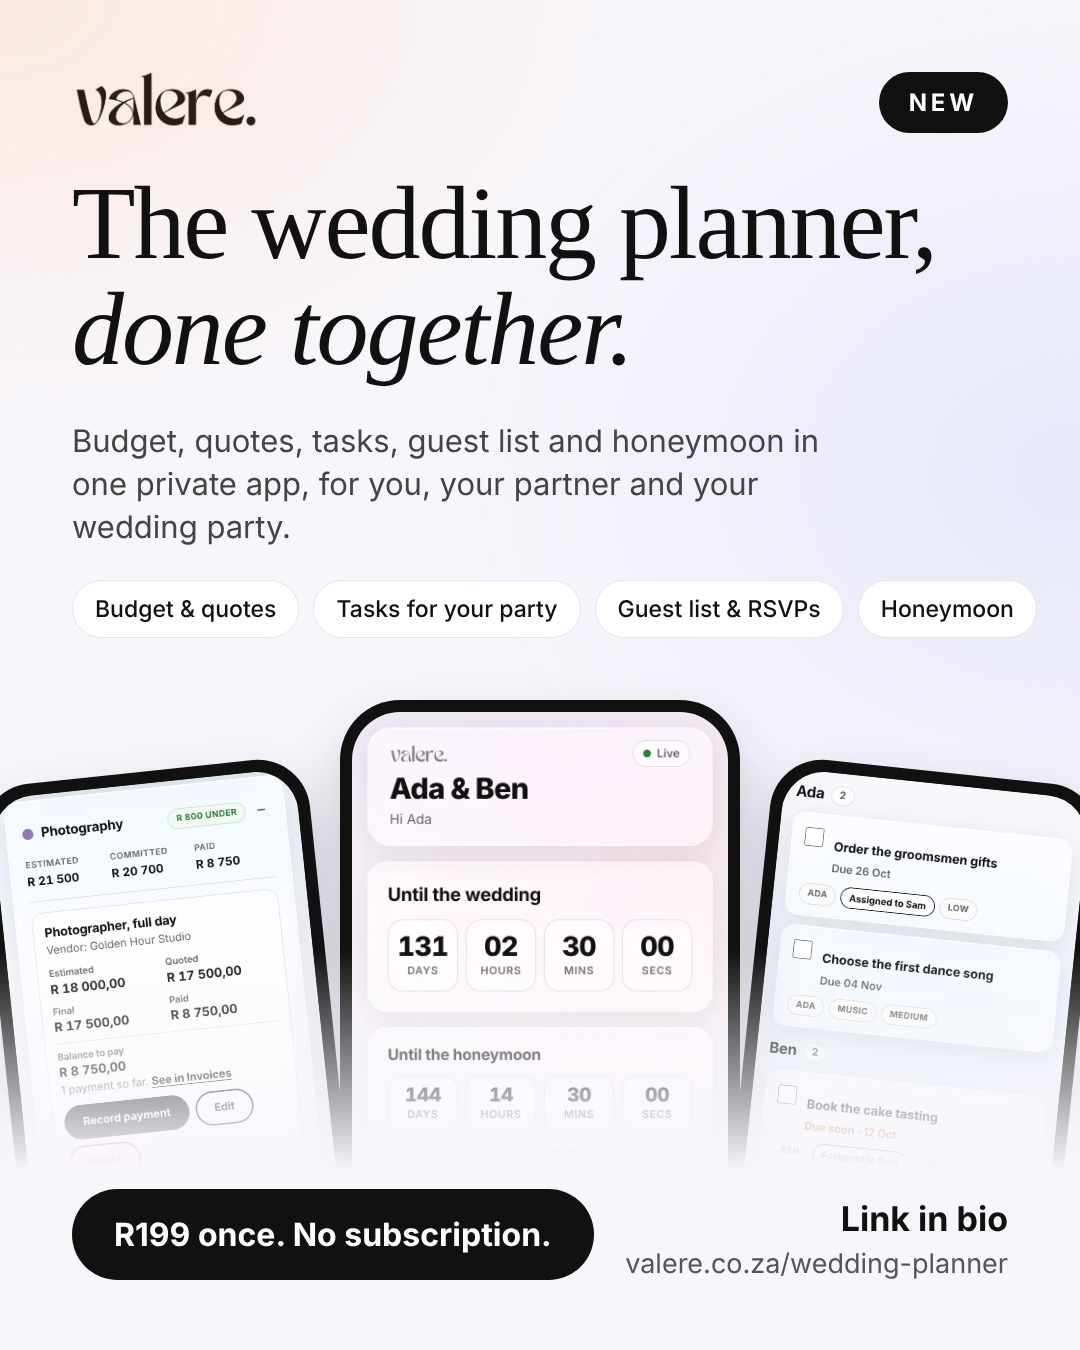
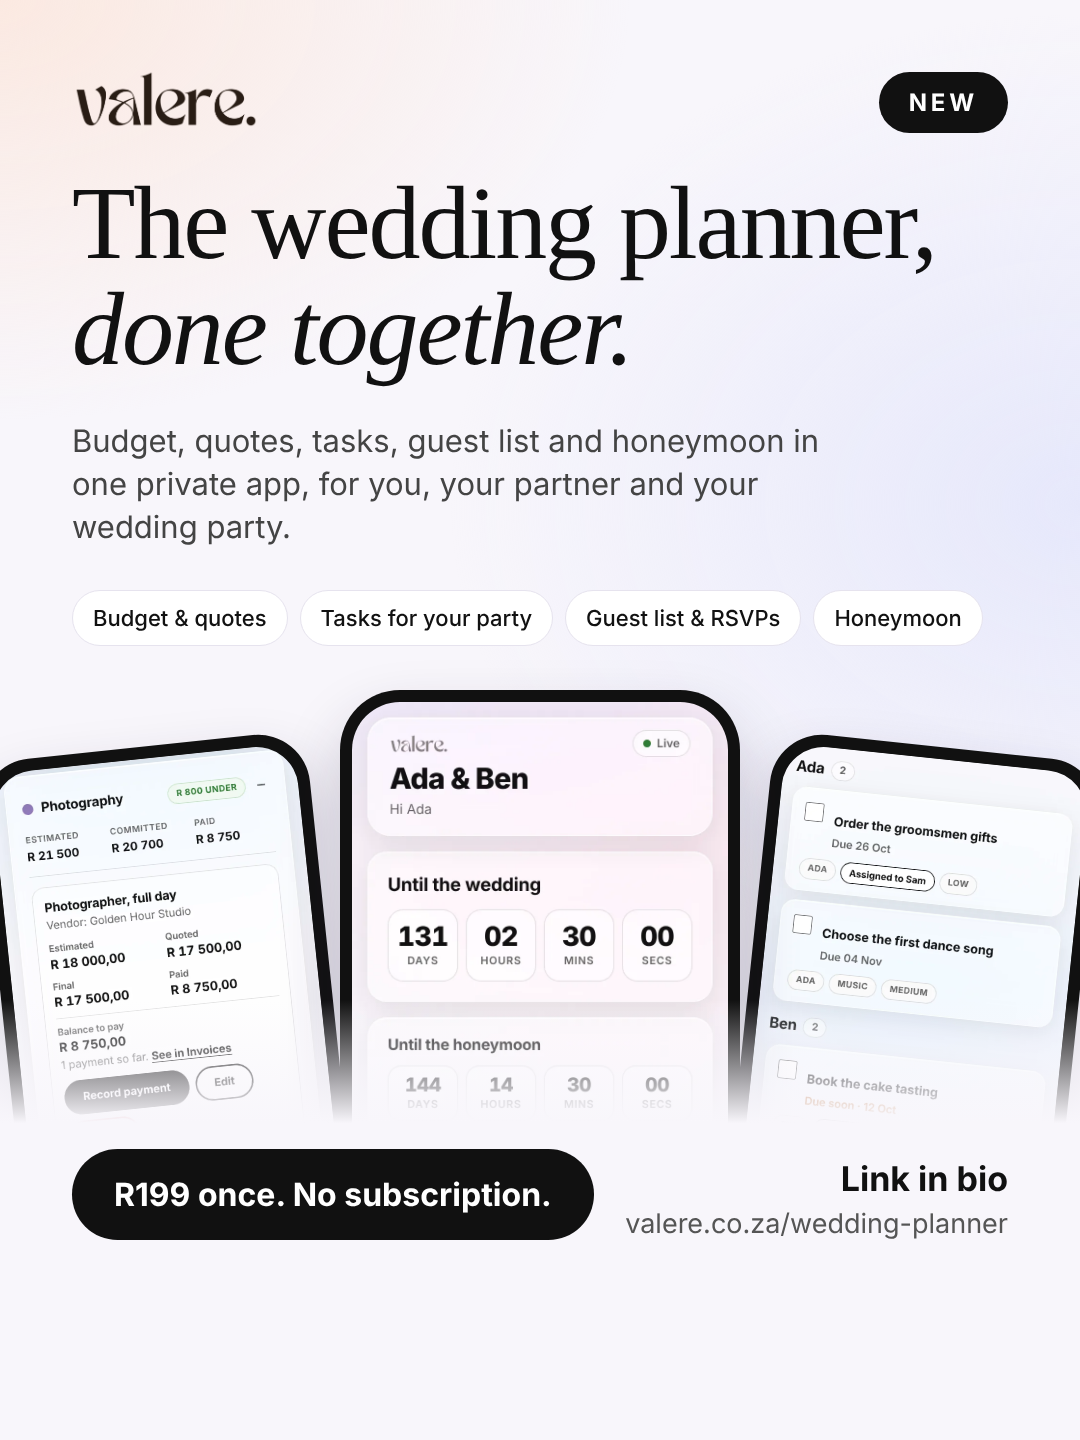
Resize Instagram post to 1080x1440 with safe-zone margins
Claude-Session: https://claude.ai/code/session_0129b5KdNxt211Ek91Usxotm

diff --git a/social/instagram-wedding-planner.html b/social/instagram-wedding-planner.html
@@ -1,25 +1,25 @@
 <!doctype html><html><head><meta charset="utf-8"><style>
 *{box-sizing:border-box;margin:0}
-body{width:1080px;height:1350px;position:relative;overflow:hidden;font-family:-apple-system,'Segoe UI',Inter,Helvetica,sans-serif;color:#111;
+body{width:1080px;height:1440px;position:relative;overflow:hidden;font-family:-apple-system,'Segoe UI',Inter,Helvetica,sans-serif;color:#111;
 background:radial-gradient(900px 600px at 0% 0%,#fbe9e1,transparent 70%),radial-gradient(900px 700px at 100% 35%,#e6e8fb,transparent 70%),#f8f6fb}
 .logo{position:absolute;left:72px;top:68px;height:62px}
 .new{position:absolute;right:72px;top:72px;background:#111;color:#fff;font-weight:700;letter-spacing:.16em;font-size:24px;padding:16px 30px;border-radius:40px}
 h1{position:absolute;left:72px;top:170px;font-family:'Cormorant Garamond',Georgia,'Times New Roman',serif;font-weight:500;font-size:104px;line-height:1.02;letter-spacing:-.02em}
 h1 em{font-style:italic}
 .sub{position:absolute;left:72px;top:420px;width:760px;font-size:31px;line-height:1.38;color:#444}
-.chips{position:absolute;left:72px;top:580px;display:flex;gap:14px}
-.chips span{background:#fff;border:1px solid #e6e3ee;border-radius:40px;padding:14px 22px;font-size:23px;font-weight:500;white-space:nowrap}
+.chips{position:absolute;left:72px;top:590px;display:flex;gap:12px}
+.chips span{background:#fff;border:1px solid #e6e3ee;border-radius:40px;padding:14px 20px;font-size:22px;font-weight:500;white-space:nowrap}
 .ph{position:absolute;background:#111;padding:12px;box-shadow:0 30px 60px rgba(40,30,70,.22)}
 .ph div{width:100%;height:100%;overflow:hidden;background-size:100% auto;background-position:top;background-repeat:no-repeat;background-color:#fff}
-.l{left:12px;top:770px;width:330px;height:700px;border-radius:52px;transform:rotate(-6deg)}
+.l{left:12px;top:745px;width:330px;height:700px;border-radius:52px;transform:rotate(-6deg)}
 .l div{border-radius:42px;background-image:url(../public/wedding-planner/wedding-budget-tracker-app.webp)}
-.c{left:340px;top:700px;width:400px;height:800px;border-radius:60px;z-index:2}
+.c{left:340px;top:690px;width:400px;height:800px;border-radius:60px;z-index:2}
 .c div{border-radius:48px;background-image:url(../public/wedding-planner/wedding-planner-home-dashboard.webp)}
-.r{left:738px;top:770px;width:330px;height:700px;border-radius:52px;transform:rotate(6deg)}
+.r{left:738px;top:745px;width:330px;height:700px;border-radius:52px;transform:rotate(6deg)}
 .r div{border-radius:42px;background-image:url(../public/wedding-planner/wedding-task-list-assign-helpers.webp)}
-.fade{position:absolute;left:0;right:0;bottom:0;height:400px;z-index:3;background:linear-gradient(to bottom,rgba(248,246,251,0),#f8f6fb 55%)}
-.price{position:absolute;z-index:4;left:72px;bottom:70px;background:#111;color:#fff;font-weight:700;font-size:32px;padding:26px 42px;border-radius:60px}
-.link{position:absolute;z-index:4;right:72px;bottom:66px;text-align:right;font-size:27px;color:#555;line-height:1.5}
+.fade{position:absolute;left:0;right:0;bottom:0;height:440px;z-index:3;background:linear-gradient(to bottom,rgba(248,246,251,0),#f8f6fb 28%)}
+.price{position:absolute;z-index:4;left:72px;bottom:200px;background:#111;color:#fff;font-weight:700;font-size:32px;padding:26px 42px;border-radius:60px}
+.link{position:absolute;z-index:4;right:72px;bottom:196px;text-align:right;font-size:27px;color:#555;line-height:1.5}
 .link b{display:block;color:#111;font-size:34px}
 </style></head><body>
 <img class="logo" src="../public/valere_logo.png"><div class="new">NEW</div>
